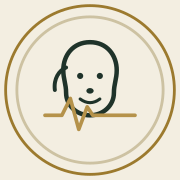
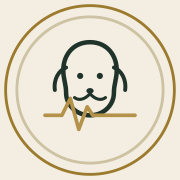
로고 최종: 양쪽 귀 + 웃는 콧수염형 입

Changed region(s): [[0.3889, 0.5, 0.6111, 0.5833], [0.6389, 0.3889, 0.7222, 0.5278], [0.6111, 0.3611, 0.6389, 0.3889]]

diff --git a/cost.html b/cost.html
@@ -29,10 +29,11 @@
         <path d="M32 15c-6 0-9.5 4.6-9.5 10 0 3 1 5 1 8 0 4.5 3.8 8 8.5 8s8.5-3.5 8.5-8c0-3 1-5 1-8 0-5.4-3.5-10-9.5-10z"
               fill="none" stroke="currentColor" stroke-width="1.6" style="color:var(--pine-strong)"/>
         <path d="M23.5 24c-2.5 1-4.5 4-4 8" fill="none" stroke="currentColor" stroke-width="1.4" stroke-linecap="round" style="color:var(--pine-strong)"/>
+        <path d="M40.5 24c2.5 1 4.5 4 4 8" fill="none" stroke="currentColor" stroke-width="1.4" stroke-linecap="round" style="color:var(--pine-strong)"/>
         <circle cx="28.5" cy="27" r="1.1" fill="var(--pine-strong)"/>
         <circle cx="35.5" cy="27" r="1.1" fill="var(--pine-strong)"/>
         <ellipse cx="32" cy="32.3" rx="1.3" ry="1" fill="var(--pine-strong)"/>
-        <path d="M28.5 35.2 Q32 37.8 35.5 35.2" fill="none" stroke="currentColor" stroke-width="1.1" stroke-linecap="round" style="color:var(--pine-strong)"/>
+        <path d="M32 33.3 C30.2 35.4 28 35.9 26.5 34.7 M32 33.3 C33.8 35.4 36 35.9 37.5 34.7" fill="none" stroke="currentColor" stroke-width="1.1" stroke-linecap="round" style="color:var(--pine-strong)"/>
         <path d="M16 41 L22 41 L25 35 L28 46 L31 38 L33 41 L48 41"
               fill="none" stroke="currentColor" stroke-width="1.3" stroke-linejoin="round" stroke-linecap="round" style="color:var(--brass-bright)"/>
       </svg>

diff --git a/gear.html b/gear.html
@@ -29,10 +29,11 @@
         <path d="M32 15c-6 0-9.5 4.6-9.5 10 0 3 1 5 1 8 0 4.5 3.8 8 8.5 8s8.5-3.5 8.5-8c0-3 1-5 1-8 0-5.4-3.5-10-9.5-10z"
               fill="none" stroke="currentColor" stroke-width="1.6" style="color:var(--pine-strong)"/>
         <path d="M23.5 24c-2.5 1-4.5 4-4 8" fill="none" stroke="currentColor" stroke-width="1.4" stroke-linecap="round" style="color:var(--pine-strong)"/>
+        <path d="M40.5 24c2.5 1 4.5 4 4 8" fill="none" stroke="currentColor" stroke-width="1.4" stroke-linecap="round" style="color:var(--pine-strong)"/>
         <circle cx="28.5" cy="27" r="1.1" fill="var(--pine-strong)"/>
         <circle cx="35.5" cy="27" r="1.1" fill="var(--pine-strong)"/>
         <ellipse cx="32" cy="32.3" rx="1.3" ry="1" fill="var(--pine-strong)"/>
-        <path d="M28.5 35.2 Q32 37.8 35.5 35.2" fill="none" stroke="currentColor" stroke-width="1.1" stroke-linecap="round" style="color:var(--pine-strong)"/>
+        <path d="M32 33.3 C30.2 35.4 28 35.9 26.5 34.7 M32 33.3 C33.8 35.4 36 35.9 37.5 34.7" fill="none" stroke="currentColor" stroke-width="1.1" stroke-linecap="round" style="color:var(--pine-strong)"/>
         <path d="M16 41 L22 41 L25 35 L28 46 L31 38 L33 41 L48 41"
               fill="none" stroke="currentColor" stroke-width="1.3" stroke-linejoin="round" stroke-linecap="round" style="color:var(--brass-bright)"/>
       </svg>

diff --git a/health.html b/health.html
@@ -29,10 +29,11 @@
         <path d="M32 15c-6 0-9.5 4.6-9.5 10 0 3 1 5 1 8 0 4.5 3.8 8 8.5 8s8.5-3.5 8.5-8c0-3 1-5 1-8 0-5.4-3.5-10-9.5-10z"
               fill="none" stroke="currentColor" stroke-width="1.6" style="color:var(--pine-strong)"/>
         <path d="M23.5 24c-2.5 1-4.5 4-4 8" fill="none" stroke="currentColor" stroke-width="1.4" stroke-linecap="round" style="color:var(--pine-strong)"/>
+        <path d="M40.5 24c2.5 1 4.5 4 4 8" fill="none" stroke="currentColor" stroke-width="1.4" stroke-linecap="round" style="color:var(--pine-strong)"/>
         <circle cx="28.5" cy="27" r="1.1" fill="var(--pine-strong)"/>
         <circle cx="35.5" cy="27" r="1.1" fill="var(--pine-strong)"/>
         <ellipse cx="32" cy="32.3" rx="1.3" ry="1" fill="var(--pine-strong)"/>
-        <path d="M28.5 35.2 Q32 37.8 35.5 35.2" fill="none" stroke="currentColor" stroke-width="1.1" stroke-linecap="round" style="color:var(--pine-strong)"/>
+        <path d="M32 33.3 C30.2 35.4 28 35.9 26.5 34.7 M32 33.3 C33.8 35.4 36 35.9 37.5 34.7" fill="none" stroke="currentColor" stroke-width="1.1" stroke-linecap="round" style="color:var(--pine-strong)"/>
         <path d="M16 41 L22 41 L25 35 L28 46 L31 38 L33 41 L48 41"
               fill="none" stroke="currentColor" stroke-width="1.3" stroke-linejoin="round" stroke-linecap="round" style="color:var(--brass-bright)"/>
       </svg>

diff --git a/index.html b/index.html
@@ -31,10 +31,11 @@
         <path d="M32 15c-6 0-9.5 4.6-9.5 10 0 3 1 5 1 8 0 4.5 3.8 8 8.5 8s8.5-3.5 8.5-8c0-3 1-5 1-8 0-5.4-3.5-10-9.5-10z"
               fill="none" stroke="currentColor" stroke-width="1.6" style="color:var(--pine-strong)"/>
         <path d="M23.5 24c-2.5 1-4.5 4-4 8" fill="none" stroke="currentColor" stroke-width="1.4" stroke-linecap="round" style="color:var(--pine-strong)"/>
+        <path d="M40.5 24c2.5 1 4.5 4 4 8" fill="none" stroke="currentColor" stroke-width="1.4" stroke-linecap="round" style="color:var(--pine-strong)"/>
         <circle cx="28.5" cy="27" r="1.1" fill="var(--pine-strong)"/>
         <circle cx="35.5" cy="27" r="1.1" fill="var(--pine-strong)"/>
         <ellipse cx="32" cy="32.3" rx="1.3" ry="1" fill="var(--pine-strong)"/>
-        <path d="M28.5 35.2 Q32 37.8 35.5 35.2" fill="none" stroke="currentColor" stroke-width="1.1" stroke-linecap="round" style="color:var(--pine-strong)"/>
+        <path d="M32 33.3 C30.2 35.4 28 35.9 26.5 34.7 M32 33.3 C33.8 35.4 36 35.9 37.5 34.7" fill="none" stroke="currentColor" stroke-width="1.1" stroke-linecap="round" style="color:var(--pine-strong)"/>
         <path d="M16 41 L22 41 L25 35 L28 46 L31 38 L33 41 L48 41"
               fill="none" stroke="currentColor" stroke-width="1.3" stroke-linejoin="round" stroke-linecap="round" style="color:var(--brass-bright)"/>
       </svg>

diff --git a/log.html b/log.html
@@ -29,10 +29,11 @@
         <path d="M32 15c-6 0-9.5 4.6-9.5 10 0 3 1 5 1 8 0 4.5 3.8 8 8.5 8s8.5-3.5 8.5-8c0-3 1-5 1-8 0-5.4-3.5-10-9.5-10z"
               fill="none" stroke="currentColor" stroke-width="1.6" style="color:var(--pine-strong)"/>
         <path d="M23.5 24c-2.5 1-4.5 4-4 8" fill="none" stroke="currentColor" stroke-width="1.4" stroke-linecap="round" style="color:var(--pine-strong)"/>
+        <path d="M40.5 24c2.5 1 4.5 4 4 8" fill="none" stroke="currentColor" stroke-width="1.4" stroke-linecap="round" style="color:var(--pine-strong)"/>
         <circle cx="28.5" cy="27" r="1.1" fill="var(--pine-strong)"/>
         <circle cx="35.5" cy="27" r="1.1" fill="var(--pine-strong)"/>
         <ellipse cx="32" cy="32.3" rx="1.3" ry="1" fill="var(--pine-strong)"/>
-        <path d="M28.5 35.2 Q32 37.8 35.5 35.2" fill="none" stroke="currentColor" stroke-width="1.1" stroke-linecap="round" style="color:var(--pine-strong)"/>
+        <path d="M32 33.3 C30.2 35.4 28 35.9 26.5 34.7 M32 33.3 C33.8 35.4 36 35.9 37.5 34.7" fill="none" stroke="currentColor" stroke-width="1.1" stroke-linecap="round" style="color:var(--pine-strong)"/>
         <path d="M16 41 L22 41 L25 35 L28 46 L31 38 L33 41 L48 41"
               fill="none" stroke="currentColor" stroke-width="1.3" stroke-linejoin="round" stroke-linecap="round" style="color:var(--brass-bright)"/>
       </svg>

diff --git a/nutrition.html b/nutrition.html
@@ -29,10 +29,11 @@
         <path d="M32 15c-6 0-9.5 4.6-9.5 10 0 3 1 5 1 8 0 4.5 3.8 8 8.5 8s8.5-3.5 8.5-8c0-3 1-5 1-8 0-5.4-3.5-10-9.5-10z"
               fill="none" stroke="currentColor" stroke-width="1.6" style="color:var(--pine-strong)"/>
         <path d="M23.5 24c-2.5 1-4.5 4-4 8" fill="none" stroke="currentColor" stroke-width="1.4" stroke-linecap="round" style="color:var(--pine-strong)"/>
+        <path d="M40.5 24c2.5 1 4.5 4 4 8" fill="none" stroke="currentColor" stroke-width="1.4" stroke-linecap="round" style="color:var(--pine-strong)"/>
         <circle cx="28.5" cy="27" r="1.1" fill="var(--pine-strong)"/>
         <circle cx="35.5" cy="27" r="1.1" fill="var(--pine-strong)"/>
         <ellipse cx="32" cy="32.3" rx="1.3" ry="1" fill="var(--pine-strong)"/>
-        <path d="M28.5 35.2 Q32 37.8 35.5 35.2" fill="none" stroke="currentColor" stroke-width="1.1" stroke-linecap="round" style="color:var(--pine-strong)"/>
+        <path d="M32 33.3 C30.2 35.4 28 35.9 26.5 34.7 M32 33.3 C33.8 35.4 36 35.9 37.5 34.7" fill="none" stroke="currentColor" stroke-width="1.1" stroke-linecap="round" style="color:var(--pine-strong)"/>
         <path d="M16 41 L22 41 L25 35 L28 46 L31 38 L33 41 L48 41"
               fill="none" stroke="currentColor" stroke-width="1.3" stroke-linejoin="round" stroke-linecap="round" style="color:var(--brass-bright)"/>
       </svg>

diff --git a/posts/01-소형견-노령견-기준-나이표.html b/posts/01-소형견-노령견-기준-나이표.html
@@ -47,10 +47,11 @@
         <path d="M32 15c-6 0-9.5 4.6-9.5 10 0 3 1 5 1 8 0 4.5 3.8 8 8.5 8s8.5-3.5 8.5-8c0-3 1-5 1-8 0-5.4-3.5-10-9.5-10z"
               fill="none" stroke="currentColor" stroke-width="1.6" style="color:var(--pine-strong)"/>
         <path d="M23.5 24c-2.5 1-4.5 4-4 8" fill="none" stroke="currentColor" stroke-width="1.4" stroke-linecap="round" style="color:var(--pine-strong)"/>
+        <path d="M40.5 24c2.5 1 4.5 4 4 8" fill="none" stroke="currentColor" stroke-width="1.4" stroke-linecap="round" style="color:var(--pine-strong)"/>
         <circle cx="28.5" cy="27" r="1.1" fill="var(--pine-strong)"/>
         <circle cx="35.5" cy="27" r="1.1" fill="var(--pine-strong)"/>
         <ellipse cx="32" cy="32.3" rx="1.3" ry="1" fill="var(--pine-strong)"/>
-        <path d="M28.5 35.2 Q32 37.8 35.5 35.2" fill="none" stroke="currentColor" stroke-width="1.1" stroke-linecap="round" style="color:var(--pine-strong)"/>
+        <path d="M32 33.3 C30.2 35.4 28 35.9 26.5 34.7 M32 33.3 C33.8 35.4 36 35.9 37.5 34.7" fill="none" stroke="currentColor" stroke-width="1.1" stroke-linecap="round" style="color:var(--pine-strong)"/>
         <path d="M16 41 L22 41 L25 35 L28 46 L31 38 L33 41 L48 41"
               fill="none" stroke="currentColor" stroke-width="1.3" stroke-linejoin="round" stroke-linecap="round" style="color:var(--brass-bright)"/>
       </svg>

diff --git a/posts/02-노령견-건강검진-주기-항목.html b/posts/02-노령견-건강검진-주기-항목.html
@@ -47,10 +47,11 @@
         <path d="M32 15c-6 0-9.5 4.6-9.5 10 0 3 1 5 1 8 0 4.5 3.8 8 8.5 8s8.5-3.5 8.5-8c0-3 1-5 1-8 0-5.4-3.5-10-9.5-10z"
               fill="none" stroke="currentColor" stroke-width="1.6" style="color:var(--pine-strong)"/>
         <path d="M23.5 24c-2.5 1-4.5 4-4 8" fill="none" stroke="currentColor" stroke-width="1.4" stroke-linecap="round" style="color:var(--pine-strong)"/>
+        <path d="M40.5 24c2.5 1 4.5 4 4 8" fill="none" stroke="currentColor" stroke-width="1.4" stroke-linecap="round" style="color:var(--pine-strong)"/>
         <circle cx="28.5" cy="27" r="1.1" fill="var(--pine-strong)"/>
         <circle cx="35.5" cy="27" r="1.1" fill="var(--pine-strong)"/>
         <ellipse cx="32" cy="32.3" rx="1.3" ry="1" fill="var(--pine-strong)"/>
-        <path d="M28.5 35.2 Q32 37.8 35.5 35.2" fill="none" stroke="currentColor" stroke-width="1.1" stroke-linecap="round" style="color:var(--pine-strong)"/>
+        <path d="M32 33.3 C30.2 35.4 28 35.9 26.5 34.7 M32 33.3 C33.8 35.4 36 35.9 37.5 34.7" fill="none" stroke="currentColor" stroke-width="1.1" stroke-linecap="round" style="color:var(--pine-strong)"/>
         <path d="M16 41 L22 41 L25 35 L28 46 L31 38 L33 41 L48 41"
               fill="none" stroke="currentColor" stroke-width="1.3" stroke-linejoin="round" stroke-linecap="round" style="color:var(--brass-bright)"/>
       </svg>

diff --git a/posts/03-노령견-계단-미끄럼방지-용품-비교.html b/posts/03-노령견-계단-미끄럼방지-용품-비교.html
@@ -47,10 +47,11 @@
         <path d="M32 15c-6 0-9.5 4.6-9.5 10 0 3 1 5 1 8 0 4.5 3.8 8 8.5 8s8.5-3.5 8.5-8c0-3 1-5 1-8 0-5.4-3.5-10-9.5-10z"
               fill="none" stroke="currentColor" stroke-width="1.6" style="color:var(--pine-strong)"/>
         <path d="M23.5 24c-2.5 1-4.5 4-4 8" fill="none" stroke="currentColor" stroke-width="1.4" stroke-linecap="round" style="color:var(--pine-strong)"/>
+        <path d="M40.5 24c2.5 1 4.5 4 4 8" fill="none" stroke="currentColor" stroke-width="1.4" stroke-linecap="round" style="color:var(--pine-strong)"/>
         <circle cx="28.5" cy="27" r="1.1" fill="var(--pine-strong)"/>
         <circle cx="35.5" cy="27" r="1.1" fill="var(--pine-strong)"/>
         <ellipse cx="32" cy="32.3" rx="1.3" ry="1" fill="var(--pine-strong)"/>
-        <path d="M28.5 35.2 Q32 37.8 35.5 35.2" fill="none" stroke="currentColor" stroke-width="1.1" stroke-linecap="round" style="color:var(--pine-strong)"/>
+        <path d="M32 33.3 C30.2 35.4 28 35.9 26.5 34.7 M32 33.3 C33.8 35.4 36 35.9 37.5 34.7" fill="none" stroke="currentColor" stroke-width="1.1" stroke-linecap="round" style="color:var(--pine-strong)"/>
         <path d="M16 41 L22 41 L25 35 L28 46 L31 38 L33 41 L48 41"
               fill="none" stroke="currentColor" stroke-width="1.3" stroke-linejoin="round" stroke-linecap="round" style="color:var(--brass-bright)"/>
       </svg>

diff --git a/posts/04-노령견-치매-인지기능장애.html b/posts/04-노령견-치매-인지기능장애.html
@@ -47,10 +47,11 @@
         <path d="M32 15c-6 0-9.5 4.6-9.5 10 0 3 1 5 1 8 0 4.5 3.8 8 8.5 8s8.5-3.5 8.5-8c0-3 1-5 1-8 0-5.4-3.5-10-9.5-10z"
               fill="none" stroke="currentColor" stroke-width="1.6" style="color:var(--pine-strong)"/>
         <path d="M23.5 24c-2.5 1-4.5 4-4 8" fill="none" stroke="currentColor" stroke-width="1.4" stroke-linecap="round" style="color:var(--pine-strong)"/>
+        <path d="M40.5 24c2.5 1 4.5 4 4 8" fill="none" stroke="currentColor" stroke-width="1.4" stroke-linecap="round" style="color:var(--pine-strong)"/>
         <circle cx="28.5" cy="27" r="1.1" fill="var(--pine-strong)"/>
         <circle cx="35.5" cy="27" r="1.1" fill="var(--pine-strong)"/>
         <ellipse cx="32" cy="32.3" rx="1.3" ry="1" fill="var(--pine-strong)"/>
-        <path d="M28.5 35.2 Q32 37.8 35.5 35.2" fill="none" stroke="currentColor" stroke-width="1.1" stroke-linecap="round" style="color:var(--pine-strong)"/>
+        <path d="M32 33.3 C30.2 35.4 28 35.9 26.5 34.7 M32 33.3 C33.8 35.4 36 35.9 37.5 34.7" fill="none" stroke="currentColor" stroke-width="1.1" stroke-linecap="round" style="color:var(--pine-strong)"/>
         <path d="M16 41 L22 41 L25 35 L28 46 L31 38 L33 41 L48 41"
               fill="none" stroke="currentColor" stroke-width="1.3" stroke-linejoin="round" stroke-linecap="round" style="color:var(--brass-bright)"/>
       </svg>

diff --git a/posts/05-노령견-사료-전환-가이드.html b/posts/05-노령견-사료-전환-가이드.html
@@ -47,10 +47,11 @@
         <path d="M32 15c-6 0-9.5 4.6-9.5 10 0 3 1 5 1 8 0 4.5 3.8 8 8.5 8s8.5-3.5 8.5-8c0-3 1-5 1-8 0-5.4-3.5-10-9.5-10z"
               fill="none" stroke="currentColor" stroke-width="1.6" style="color:var(--pine-strong)"/>
         <path d="M23.5 24c-2.5 1-4.5 4-4 8" fill="none" stroke="currentColor" stroke-width="1.4" stroke-linecap="round" style="color:var(--pine-strong)"/>
+        <path d="M40.5 24c2.5 1 4.5 4 4 8" fill="none" stroke="currentColor" stroke-width="1.4" stroke-linecap="round" style="color:var(--pine-strong)"/>
         <circle cx="28.5" cy="27" r="1.1" fill="var(--pine-strong)"/>
         <circle cx="35.5" cy="27" r="1.1" fill="var(--pine-strong)"/>
         <ellipse cx="32" cy="32.3" rx="1.3" ry="1" fill="var(--pine-strong)"/>
-        <path d="M28.5 35.2 Q32 37.8 35.5 35.2" fill="none" stroke="currentColor" stroke-width="1.1" stroke-linecap="round" style="color:var(--pine-strong)"/>
+        <path d="M32 33.3 C30.2 35.4 28 35.9 26.5 34.7 M32 33.3 C33.8 35.4 36 35.9 37.5 34.7" fill="none" stroke="currentColor" stroke-width="1.1" stroke-linecap="round" style="color:var(--pine-strong)"/>
         <path d="M16 41 L22 41 L25 35 L28 46 L31 38 L33 41 L48 41"
               fill="none" stroke="currentColor" stroke-width="1.3" stroke-linejoin="round" stroke-linecap="round" style="color:var(--brass-bright)"/>
       </svg>
